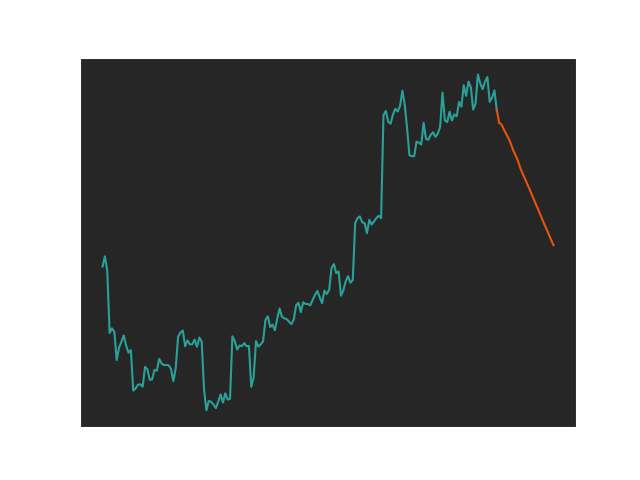
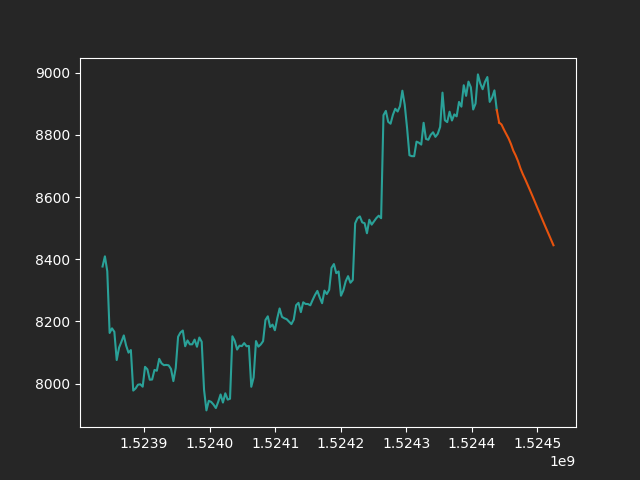
T

diff --git a/src/crypto_models/plot_prices.py b/src/crypto_models/plot_prices.py
@@ -75,7 +75,7 @@ def main():
     plt.plot([past_times[-1], futr_times[0]], trans['open'], '#e8530e')
     plt.plot(futr_times, futr_df['open'], '#e8530e')
 
-    plt.savefig("../django/portfolio/static/portfolio/"+argcurrencyname+"_plot.png")
+    plt.savefig("../django/portfolio/static/portfolio/"+argcurrencyname+"_plot.png", facecolor=fig.get_facecolor(), transparent=True)
 
 if __name__ == "__main__":
     main()
